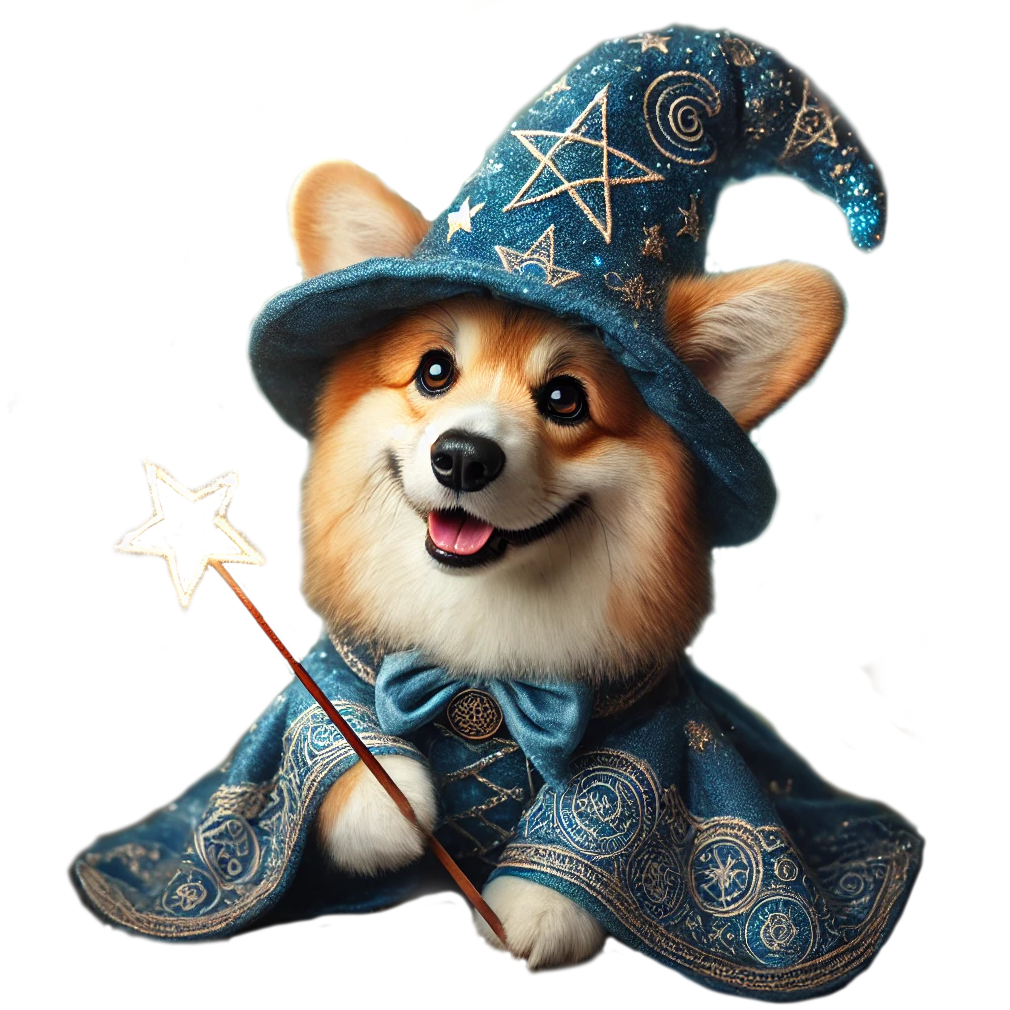
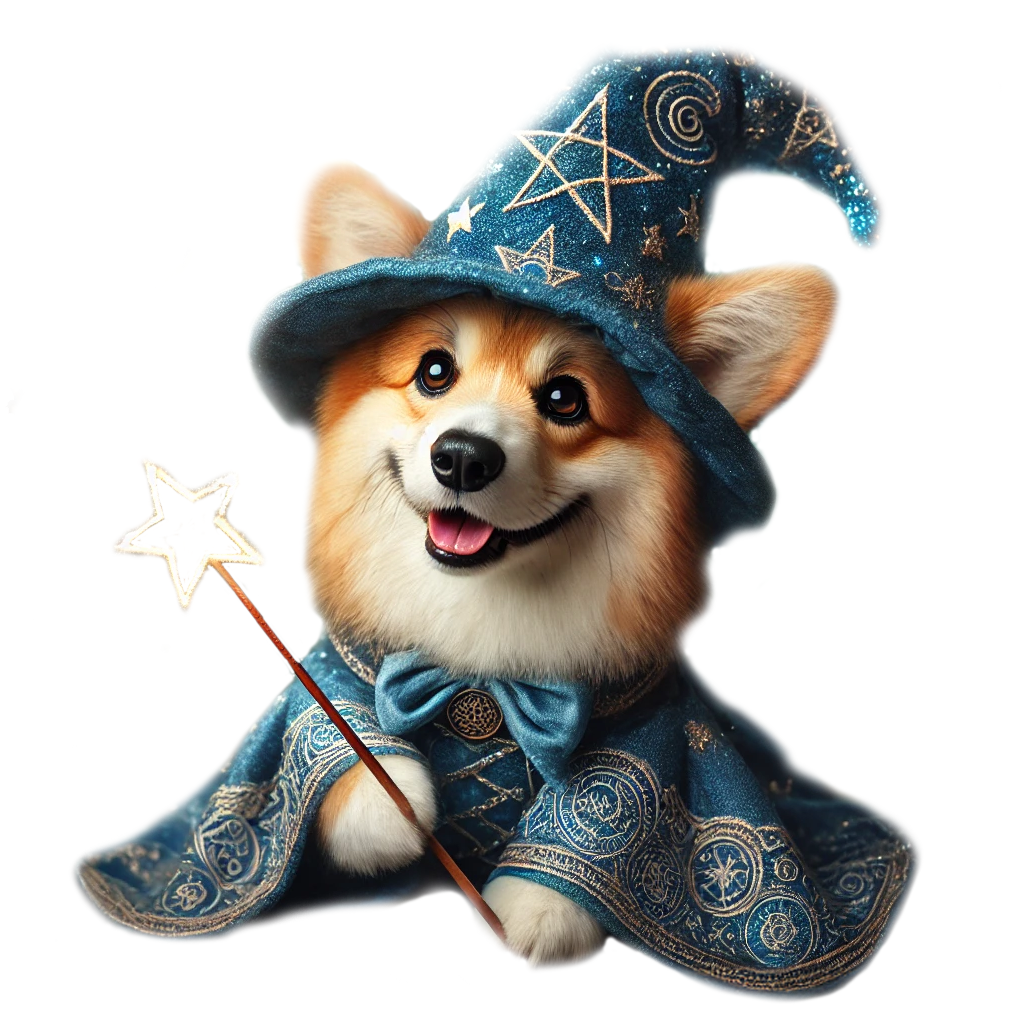
add menu bar, no more dropdown, image change. no buttons for links

diff --git a/style.css b/style.css
@@ -6,7 +6,7 @@ body {
   margin: 0;
   background-color: black; /* Black background */
   background-image: url("images/corgi.png");
-  background-size: contain; /* Ensures the image is fully visible, but might leave space */
+  background-size: 40%; /* Ensures the image is fully visible, but might leave space */
   background-position: right center; /* Position the image on the right side, vertically centered */
   background-repeat: no-repeat; /* Prevent image repetition */
   height: 100vh; /* Full viewport height */
@@ -23,7 +23,6 @@ body {
   height: 100%;
   z-index: 1; /* Snowflakes in the background */
   pointer-events: none; /* Prevent interaction with snowflakes */
-
 }
 
 .snowflake {
@@ -75,8 +74,8 @@ body {
 /* Intro box styling */
 .intro-box,
 .links-box {
-  padding: 20px;
-  margin: 50px auto; /* Ensure it has some space around */
+  padding: 10%;
+  margin: 10% auto; /* Ensure it has some space around */
   max-width: 500px;
   border-radius: 12px;
   background: rgba(255, 255, 255, 0.3); /* Semi-transparent white */
@@ -91,7 +90,7 @@ body {
 /* Adjust margins for responsiveness */
 .intro-box h2,
 .intro-box p {
-  margin: 10px 0;
+  margin: 1% 0;
 }
 
 /* Example: Hyperlink styling within intro box */
@@ -105,39 +104,6 @@ body {
   text-decoration: underline;
 }
 
-/* Links box styling */
-.links-box {
-  margin-top: 30px;
-}
-
-.links-box a {
-  color: #dcd6f7; /* Light color for links */
-  text-decoration: none;
-  font-weight: bold;
-}
-
-.links-box a:hover {
-  text-decoration: underline;
-}
-
-/* Button Link styling */
-.button-link {
-  display: inline-block;
-  padding: 10px 20px;
-  margin: 1%;
-  background: rgba(77, 6, 113, 0.5); /* Semi-transparent background */
-  color: white;
-  text-align: center;
-  text-decoration: none;
-  border-radius: 5px;
-  font-size: 16px;
-  backdrop-filter: blur(5px); /* Frosted glass effect */
-  box-shadow: 0 4px 9px 1px rgba(0, 0, 0, 0.9); /* Purple glow */
-}
-
-.button-link:hover {
-  background-color: #ac741251; /* Darkens background on hover */
-}
 
 /* Footer styling */
 footer {
@@ -167,7 +133,7 @@ footer {
     font-size: 14px;
   }
   .container {
-    padding: 10px;
+    padding: 10%;
   }
 }
 
@@ -176,6 +142,55 @@ footer {
     font-size: 16px;
   }
   .container {
-    padding: 20px;
+    padding: 10%;
   }
+}
+
+
+
+/* ---------------------Menu Bar--------------------- */
+/* Style for the menu bar */
+.menu-bar {
+  position: fixed; /* Sticks the menu bar to the top of the page */
+  top: 0; /* Aligns to the top */
+  left: 0; /* Ensures it spans from the left edge */
+  width: 100%; /* Full-width */
+  height: 50px; /* Fixed height for consistency across screens */
+  background-color: #121212; /* Dark background */
+  color: white; /* Text color */
+  z-index: 1000; /* Stays above other elements */
+  box-shadow: 0 4px 6px rgba(0, 0, 0, 0.1); /* Adds subtle shadow for depth */
+  display: flex; /* Align content horizontally */
+  align-items: center; /* Vertically center items */
+  padding: 0 10px; /* Add horizontal padding */
+}
+
+/* Menu bar list items */
+.menu-bar ul {
+  margin: 0;
+  padding: 0;
+  list-style: none; /* Removes bullet points */
+  display: flex; /* Align items horizontally */
+  justify-content: flex-end; /* Aligns menu items to the right */
+  width: 100%; /* Ensures proper spacing */
+}
+
+.menu-bar ul li {
+  position: relative; /* Required for dropdown positioning */
+  margin: 0;
+}
+
+/* Links in the menu bar */
+.menu-bar ul li a {
+  text-decoration: none; /* Remove underline from links */
+  color: white; /* Link color */
+  padding: 10px 15px; /* Padding for clickable area */
+  display: block; /* Ensures clickable area includes the padding */
+  font-size: 14px; /* Optional: adjust font size */
+  line-height: 20px; /* Centers text inside the padding */
+}
+
+.menu-bar ul li a:hover {
+  background-color: #555; /* Highlight on hover */
+  border-radius: 4px; /* Rounded corners on hover */
 }

diff --git a/index.html b/index.html
@@ -12,26 +12,31 @@
 
   <div class="intro-box">
     <h2>Hi There!</h2>
-    <p>Thank you for checking out my website!</p>
-    <p>If you're curious about what I have been working on: Here's my <a class="hyper" href="https://github.com/masonpham16" target="_blank">GitHub link</a>.</p>
+    <p>Welcome to my wonder world</p>
   </div>
 
-  <div class="links-box">
-    <h3>Important Links</h3>
+
+  <!--Snow effect-->
+<script src="script.js"></script>
+  <!--Snow effect-->
+
+
+  <!--Meny bar-->
+<nav class="menu-bar">
     <ul>
-      <p><a class="button-link" href="education.html">Educational background</a></p>
-      <p><a class="button-link" href="projects.html">Projects</a></p>
-      <p><a class="button-link" href="work.html">Work experience</a></p>
+      <li><a href="work.html">Work Experience</a></li>
+      <li><a href="education.html">Education</a></li>
+      <li><a href="projects.html">Projects</a></li>
     </ul>
-  </div>
+  </nav>
+  <!--Meny bar-->
 
-  <footer>
+<footer>
     <a class="foot1">
-        Mason Pham, Email:masonpham16@gmail.com, GitHub: github.com/masonpham16
+        Creator: Mason Pham || Email:masonpham16@gmail.com || GitHub: github.com/masonpham16
     </a>
-  </footer>
+</footer>
 
-  <script src="script.js"></script>
 </body>
 
 </html>

diff --git a/work.html b/work.html
@@ -28,16 +28,27 @@
         BTW Images:<br>
         -Nov 2014 - Aug 2016<br>
         -Floorplan Specialist<br>
-
-    <div class="links">
-        <a class="button-link" href="index.html">Home</a>
     </div>
 
 
-</div>
+  <!--Snow effect-->
+    <script src="script.js"></script>
+  <!--Snow effect-->
+
+
+  <!--Meny bar-->
+  <nav class="menu-bar">
+    <ul>
+      <li><a href="index.html">Home</a></li>
+      <li><a href="education.html">Education</a></li>
+      <li><a href="projects.html">Projects</a></li>
+      </li>
+    </ul>
+  </nav>
+  <!--Meny bar-->
 
 </body>
-<script src="script.js"></script>
+
 <footer>
     <a class="foot1">
         Mason Pham, Email:masonpham16@gmail.com, GitHub: github.com/masonpham16

diff --git a/projects.html b/projects.html
@@ -17,14 +17,24 @@
         -JUnit - unit testing<br>
         -Recursive flood fill<br>
         -List and unit testing<br>
-
-    <div class="links">
-        <a class="button-link" href="index.html">Home</a>
     </div>
 
 
-</div>
+  <!--Snow effect-->
 <script src="script.js"></script>
+  <!--Snow effect-->
+
+
+  <!--Meny bar-->
+  <nav class="menu-bar">
+    <ul>
+      <li><a href="index.html">Home</a></li>
+      <li><a href="work.html">Work Experience</a></li>
+      <li><a href="education.html">Education</a></li>
+    </ul>
+  </nav>
+  <!--Meny bar-->
+
 </body>
 
 <footer>

diff --git a/education.html b/education.html
@@ -29,12 +29,26 @@
         <h2>My favorite programming language</h2>
         -Python<br>
         -Java<br>
-
-    <div class="links">
-        <a class="button-link" href="index.html">Home</a>
     </div>
-</div>
+
+
+  <!--Snow effect-->
 <script src="script.js"></script>
+  <!--Snow effect-->
+
+
+  <!--Meny bar-->
+  <nav class="menu-bar">
+    <ul>
+      <li><a href="index.html">Home</a></li>
+      <li><a href="work.html">Work Experience</a></li>
+      <li><a href="projects.html">Projects</a></li>
+    </ul>
+  </nav>
+  <!--Meny bar-->
+
+
+
 </body>
 
 <footer>
